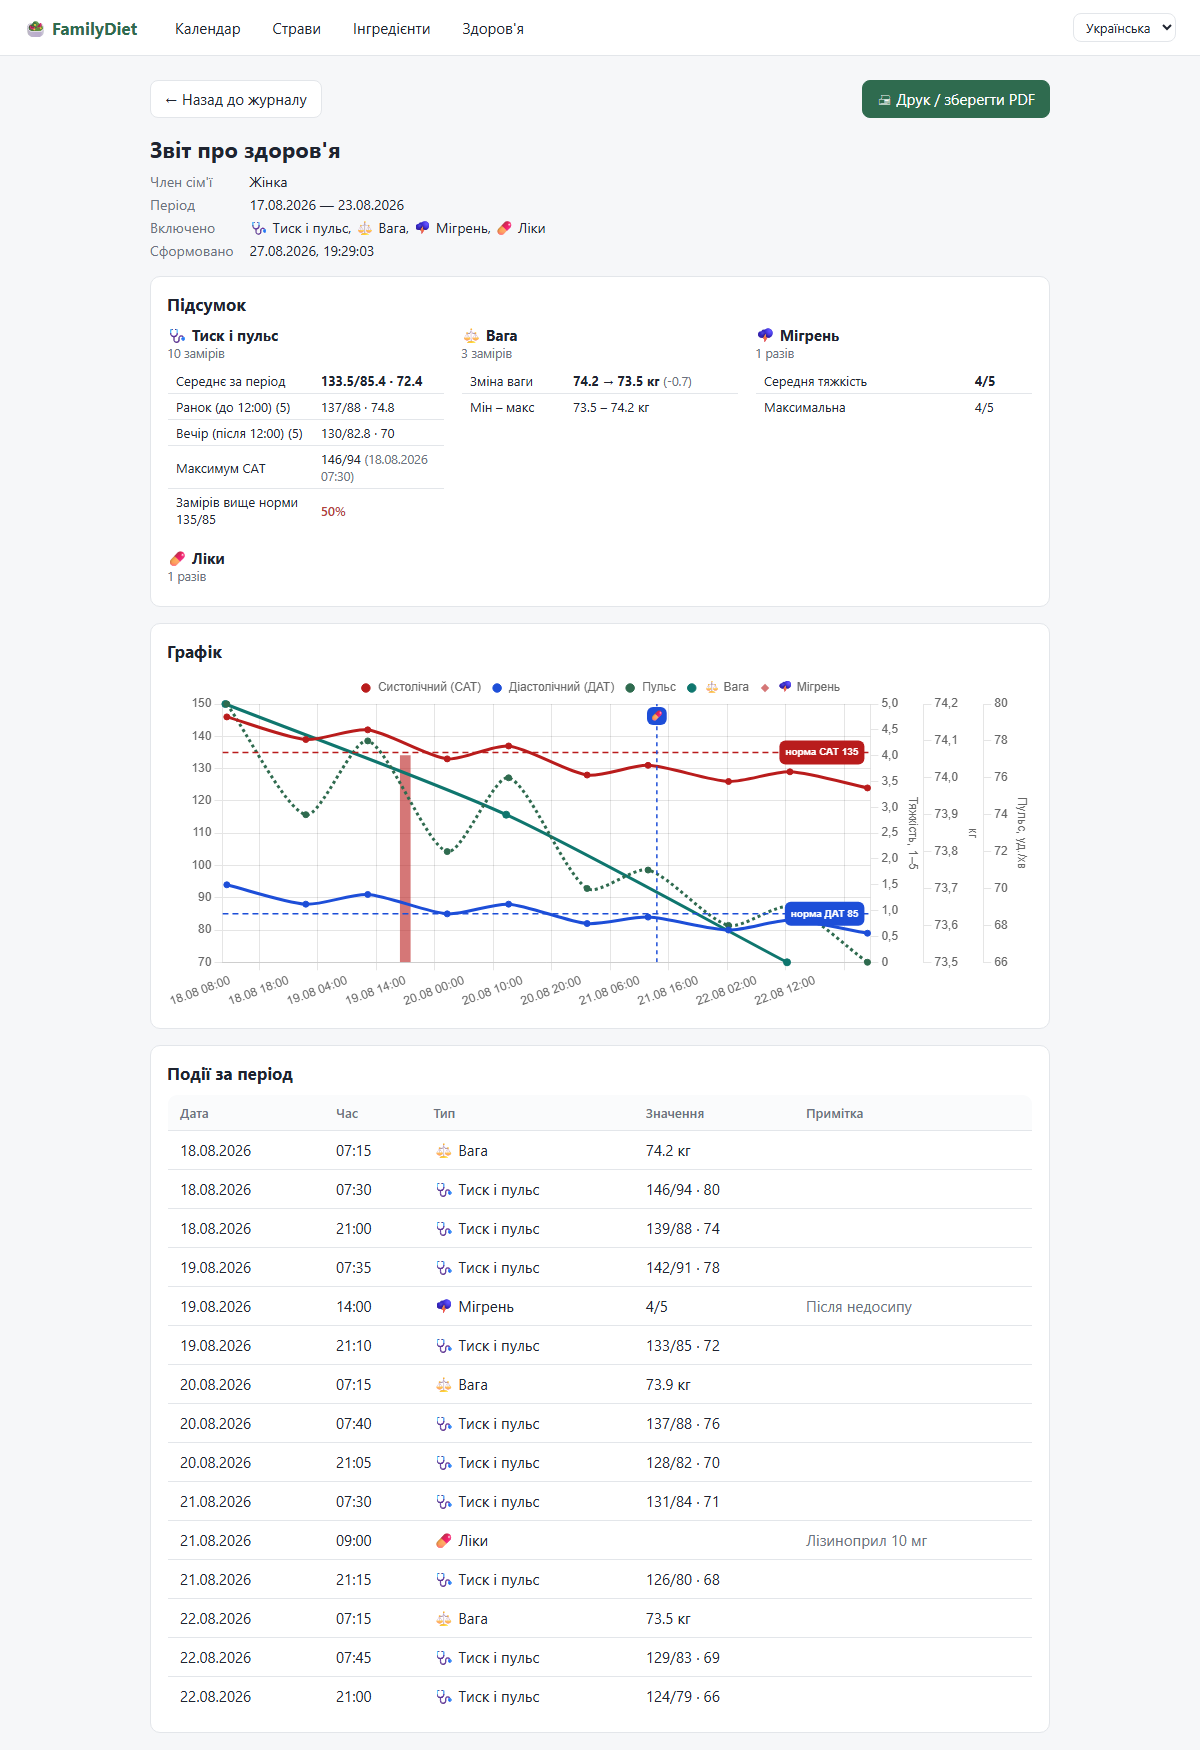
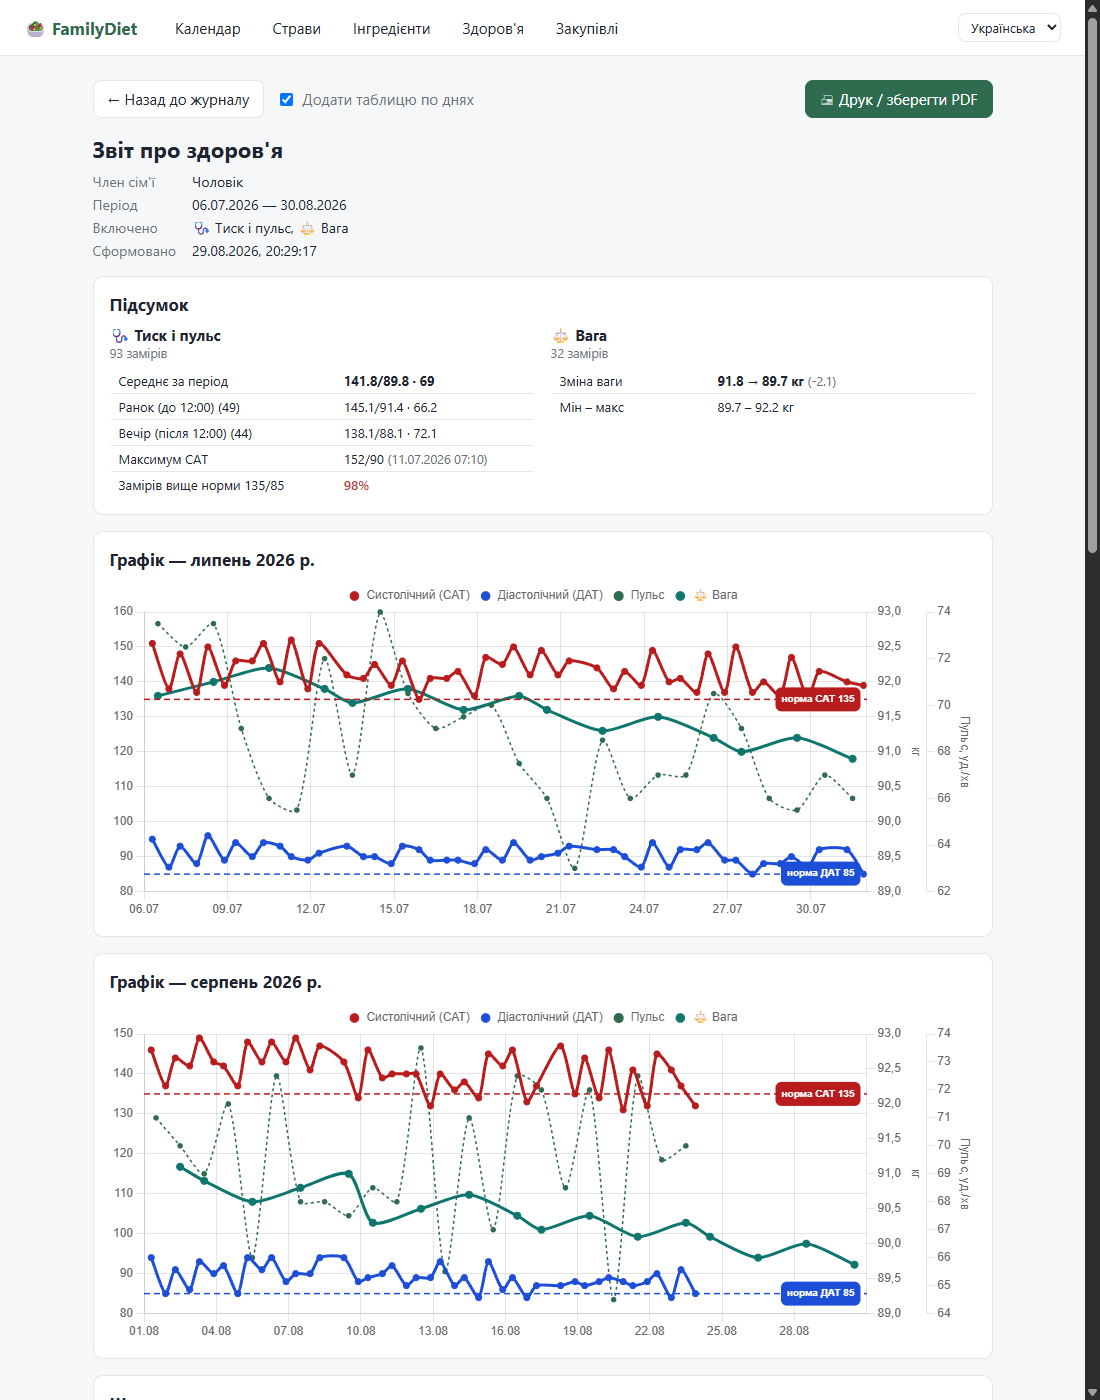
feat: demo pressure seed, live-demo screenshots, README for publishing
- app:seed-demo also seeds 8 weeks of morning/evening blood pressure and pulse
  for the first member (deterministic crc32 noise, note='demo' so only demo rows
  are replaced on re-run)
- screenshots re-taken from the live demo: health, report, mobile health/shopping
- README: mobile section, make demo description, structure with prod Docker files,
  single-container production note

diff --git a/backend/src/Command/SeedDemoCommand.php b/backend/src/Command/SeedDemoCommand.php
@@ -24,6 +24,9 @@ use Symfony\Component\Console\Style\SymfonyStyle;
 #[AsCommand(name: 'app:seed-demo', description: 'Демо-дані: меню на поточний тиждень + історія ваги (перезаписує!)')]
 class SeedDemoCommand extends Command
 {
+    /** Позначка демо-записів тиску: лише їх команда видаляє при повторному запуску. */
+    private const DEMO_NOTE = 'demo';
+
     public function __construct(
         private readonly EntityManagerInterface $em,
         private readonly FamilyMemberRepository $members,
@@ -53,14 +56,19 @@ class SeedDemoCommand extends Command
 
         $planned = 0;
         $weighed = 0;
+        $measured = 0;
 
-        $this->em->wrapInTransaction(function () use ($members, $byCategory, $monday, $sunday, &$planned, &$weighed): void {
+        $this->em->wrapInTransaction(function () use ($members, $byCategory, $monday, $sunday, &$planned, &$weighed, &$measured): void {
             $this->em->createQuery(
                 'DELETE FROM App\Entity\MealPlanEntry e WHERE e.date >= :from AND e.date <= :to'
             )->execute(['from' => $monday, 'to' => $sunday]);
             $this->em->createQuery(
                 "DELETE FROM App\Entity\HealthEvent h WHERE h.type = 'weight'"
             )->execute();
+            // Тиск чистимо лише демо-записи (позначені нотаткою) — реальні заміри користувача не чіпаємо
+            $this->em->createQuery(
+                "DELETE FROM App\Entity\HealthEvent h WHERE h.type = 'pressure' AND h.note = :note"
+            )->execute(['note' => self::DEMO_NOTE]);
 
             // Меню: кожному — свій набір страв на день, зсув по днях дає різноманіття без random
             foreach (range(0, 6) as $day) {
@@ -105,14 +113,45 @@ class SeedDemoCommand extends Command
                     }
                 }
             }
+
+            // Тиск і пульс першого члена сім'ї: 8 тижнів, ранок і вечір, ранкові вищі, повільний тренд униз
+            $first = $members[0];
+            foreach (range(0, 55) as $dayIndex) {
+                $date = $monday->modify(sprintf('-%d days', 56 - $dayIndex));
+                foreach ([['07:10', 6, 3, -4], ['21:30', 0, 0, 2]] as [$time, $sysShift, $diaShift, $pulseShift]) {
+                    if ($dayIndex % 9 === 4 && $time === '21:30') {
+                        continue; // інколи вечірній замір пропущено — так природніше
+                    }
+                    // Детермінований «шум» через crc32: без random, але без видимої періодичності
+                    $h = crc32(sprintf('%d/%s', $dayIndex, $time));
+                    $sysNoise = $h % 11 - 5;
+                    $diaNoise = intdiv($h, 11) % 7 - 3;
+                    $pulseNoise = intdiv($h, 77) % 13 - 6;
+                    $this->em->persist(
+                        (new HealthEvent())
+                            ->setFamilyMember($first)
+                            ->setDate($date)
+                            ->setTime(\DateTimeImmutable::createFromFormat('!H:i', $time) ?: null)
+                            ->setType('pressure')
+                            ->setNote(self::DEMO_NOTE)
+                            ->setPayload([
+                                'systolic' => 142 - intdiv($dayIndex, 8) + $sysShift + $sysNoise,
+                                'diastolic' => 90 - intdiv($dayIndex, 14) + $diaShift + $diaNoise,
+                                'pulse' => 70 + $pulseShift + $pulseNoise,
+                            ])
+                    );
+                    ++$measured;
+                }
+            }
         });
 
         $io->success(sprintf(
-            'Меню на тиждень %s — %s: %d записів; ваги: %d записів.',
+            'Меню на тиждень %s — %s: %d записів; ваги: %d записів; тиску: %d записів.',
             $monday->format('Y-m-d'),
             $sunday->format('Y-m-d'),
             $planned,
-            $weighed
+            $weighed,
+            $measured
         ));
 
         return Command::SUCCESS;

diff --git a/README.md b/README.md
@@ -29,7 +29,8 @@ make init
 
 Календар після сіду порожній — сім'я наповнює його сама. Для швидкого огляду
 є `make demo`: заповнює меню обох на поточний тиждень і додає вісім тижнів
-історії ваги (перезаписує поточний тиждень і всі записи ваги).
+історії ваги та замірів тиску/пульсу (перезаписує поточний тиждень, усі записи
+ваги і лише демо-записи тиску).
 
 <details>
 <summary>Без make — ті самі кроки вручну</summary>
@@ -103,7 +104,7 @@ fly deploy
 | --- | --- |
 | ![Страви](.docs/screenshots/dishes.png) | ![Інгредієнти](.docs/screenshots/ingredients.png) |
 
-Журнал здоров'я — події в календарі (FullCalendar) і графіки тиску/пульсу з зонами норми (Chart.js):
+Журнал здоров'я — події в календарі (FullCalendar) і графік тиску/пульсу/ваги з лініями норми (Chart.js), пресети періодів і типів подій:
 
 ![Здоров'я](.docs/screenshots/health.png)
 
@@ -115,6 +116,12 @@ fly deploy
 Список закупівель — агрегація інгредієнтів із меню за довільний період, групи за категоріями, позначки «куплено» та «є вдома» (зберігаються в БД, зручно відмічати з телефона в магазині):
 
 ![Закупівлі](.docs/screenshots/shopping.png)
+
+Мобільний вигляд — журнал здоров'я списком (з кнопкою «＋» для запису на сьогодні) і список закупівель для магазину:
+
+| Здоров'я | Закупівлі |
+| --- | --- |
+| ![Здоров'я на телефоні](.docs/screenshots/mobile-health.png) | ![Закупівлі на телефоні](.docs/screenshots/mobile-shopping.png) |
 
 ## Сторінки
 
@@ -164,10 +171,11 @@ fly deploy
 ## Структура
 
 ```
-backend/    Symfony API (entities, controllers, fixtures)
+backend/    Symfony API (entities, controllers, fixtures, OpenAPI-схеми)
 frontend/   Vue 3 SPA (Vite dev server проксує /api на nginx)
-docker/     php-fpm Dockerfile, nginx конфіг
-.docs/      план дієти (PDF), seed JSON, план розробки
+docker/     dev: php-fpm Dockerfile, nginx конфіг · prod/: nginx + supervisord + init-db
+Dockerfile  production-образ (multi-stage) для Fly.io; fly.toml — конфіг деплою
+.docs/      план дієти (PDF), seed JSON, план розробки, скріншоти
 ```
 
 ## Технічні рішення
@@ -206,6 +214,10 @@ docker/     php-fpm Dockerfile, nginx конфіг
   винесені в один клас-носій атрибутів, який підхоплює власний `Describer`
   (бандл сканує лише контролери). Тест перевіряє, що кожна операція має summary
   і відповіді.
+- **Один контейнер у production.** Fly.io Machine з nginx + php-fpm під supervisord
+  і зібраним SPA всередині образу: без окремого CDN/бакета для статики і без
+  другого сервісу — для сімейного застосунку це дешевше й простіше в супроводі.
+  Міграції і сід — `release_command`, тому деплой ідемпотентний.
 - **Тестова ізоляція** — `dama/doctrine-test-bundle`: кожен тест у транзакції
   з відкатом, тестова БД лишається чистою без перезасіву.
 
